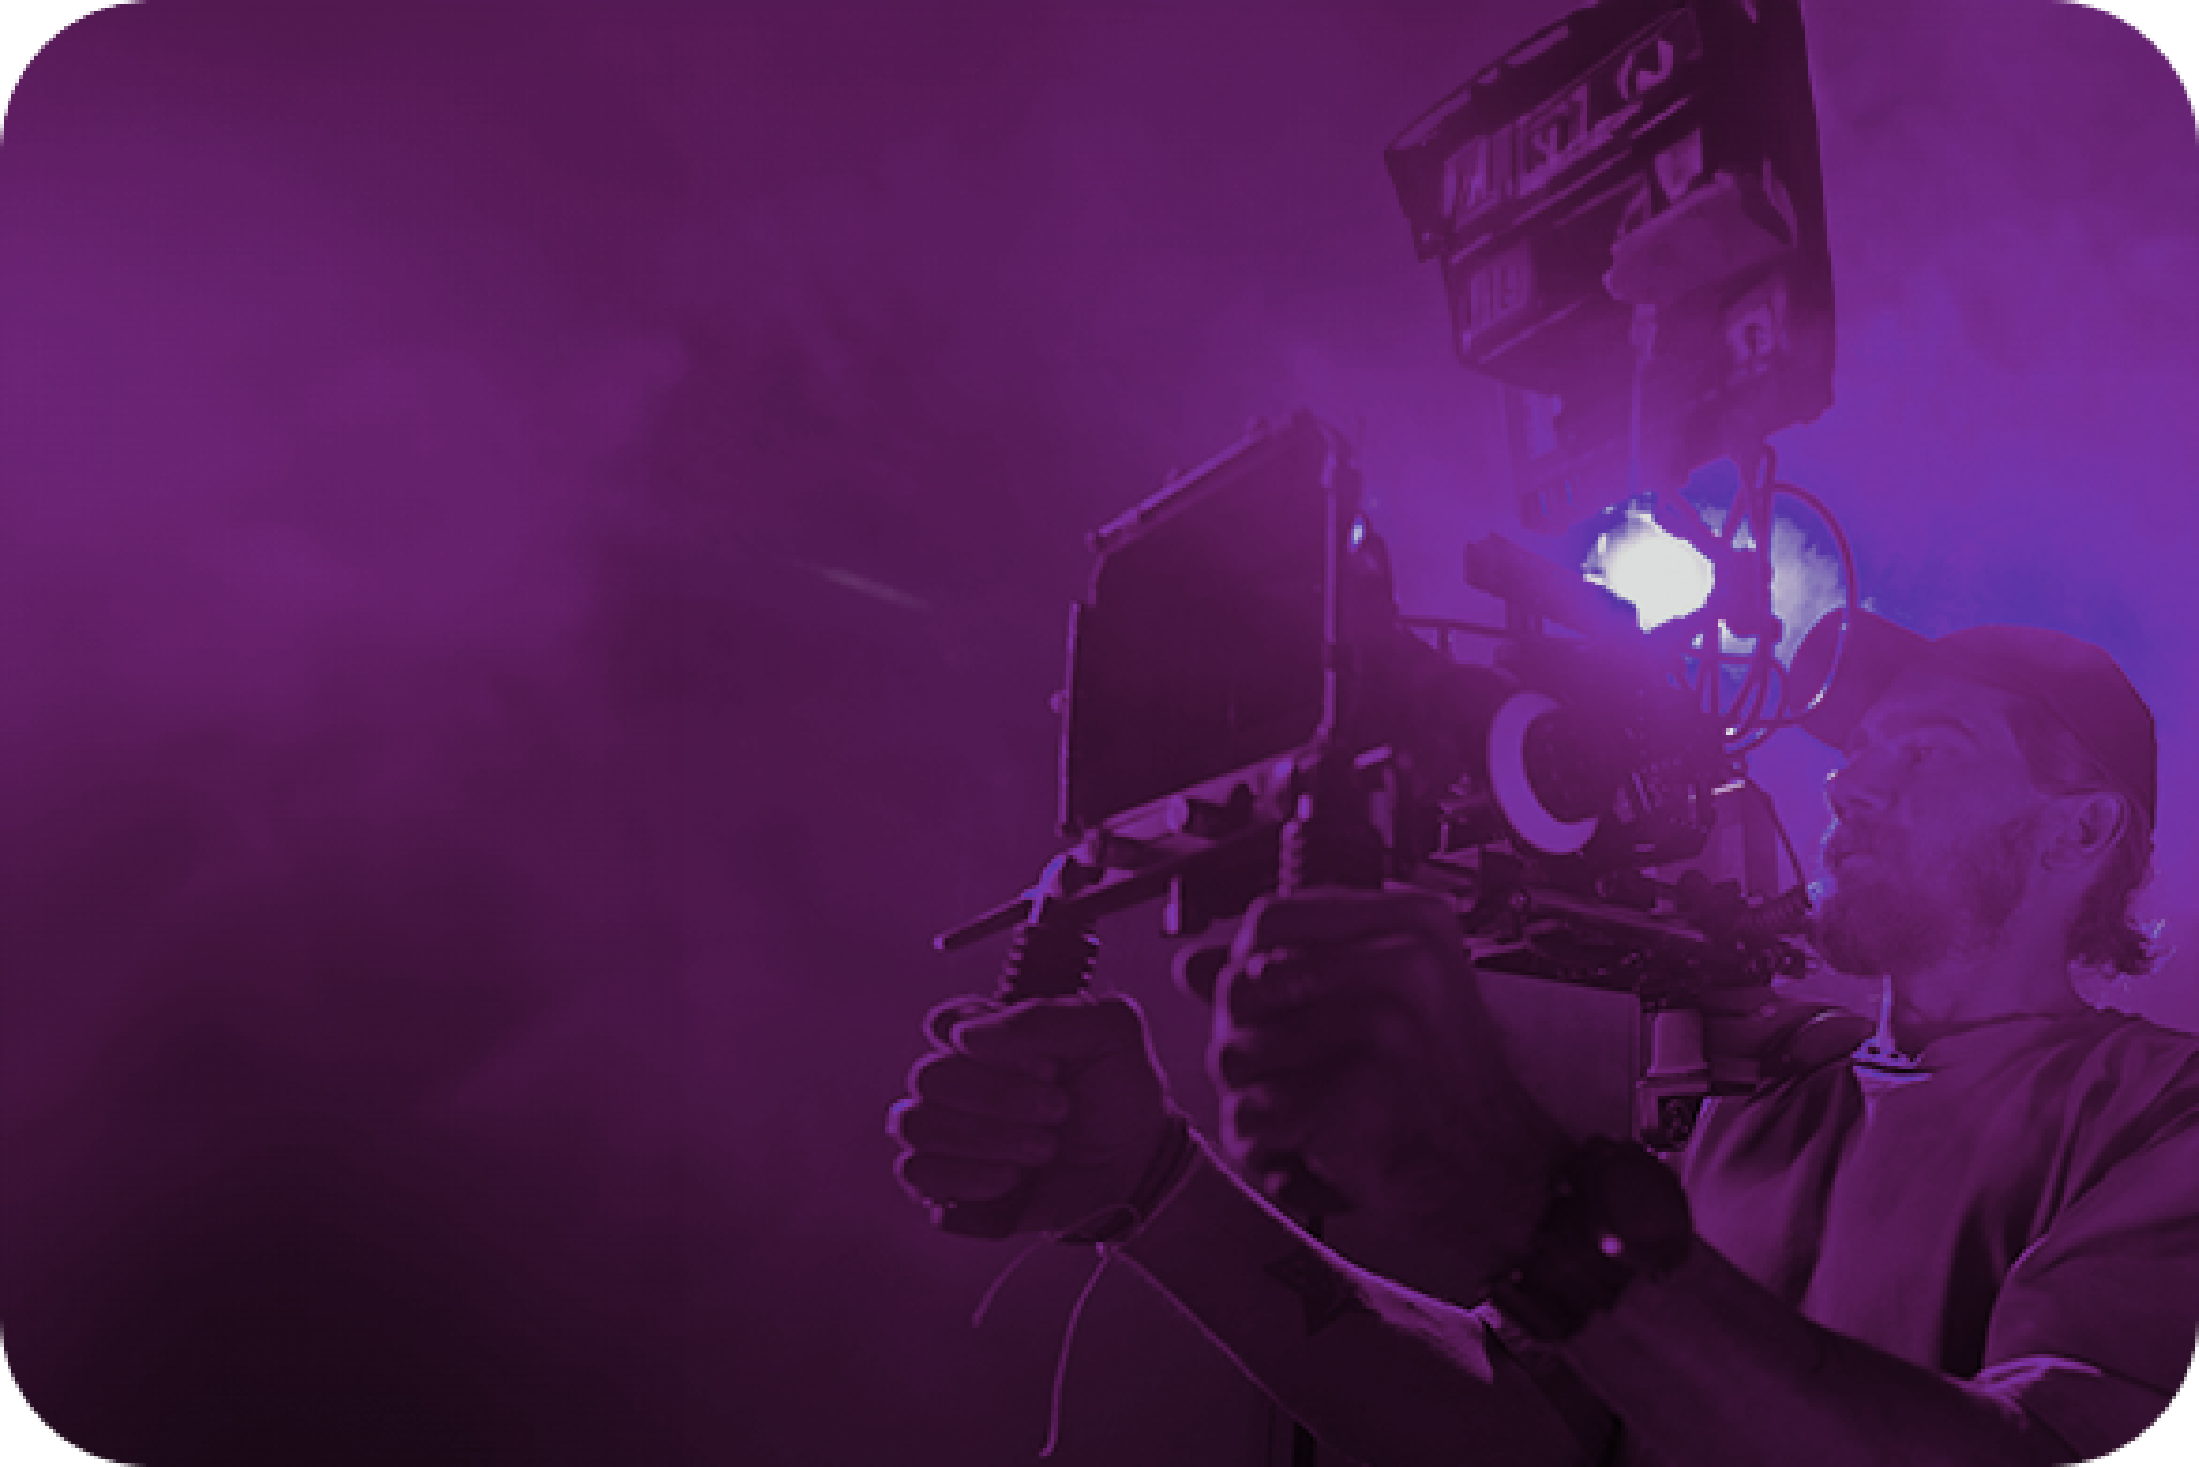
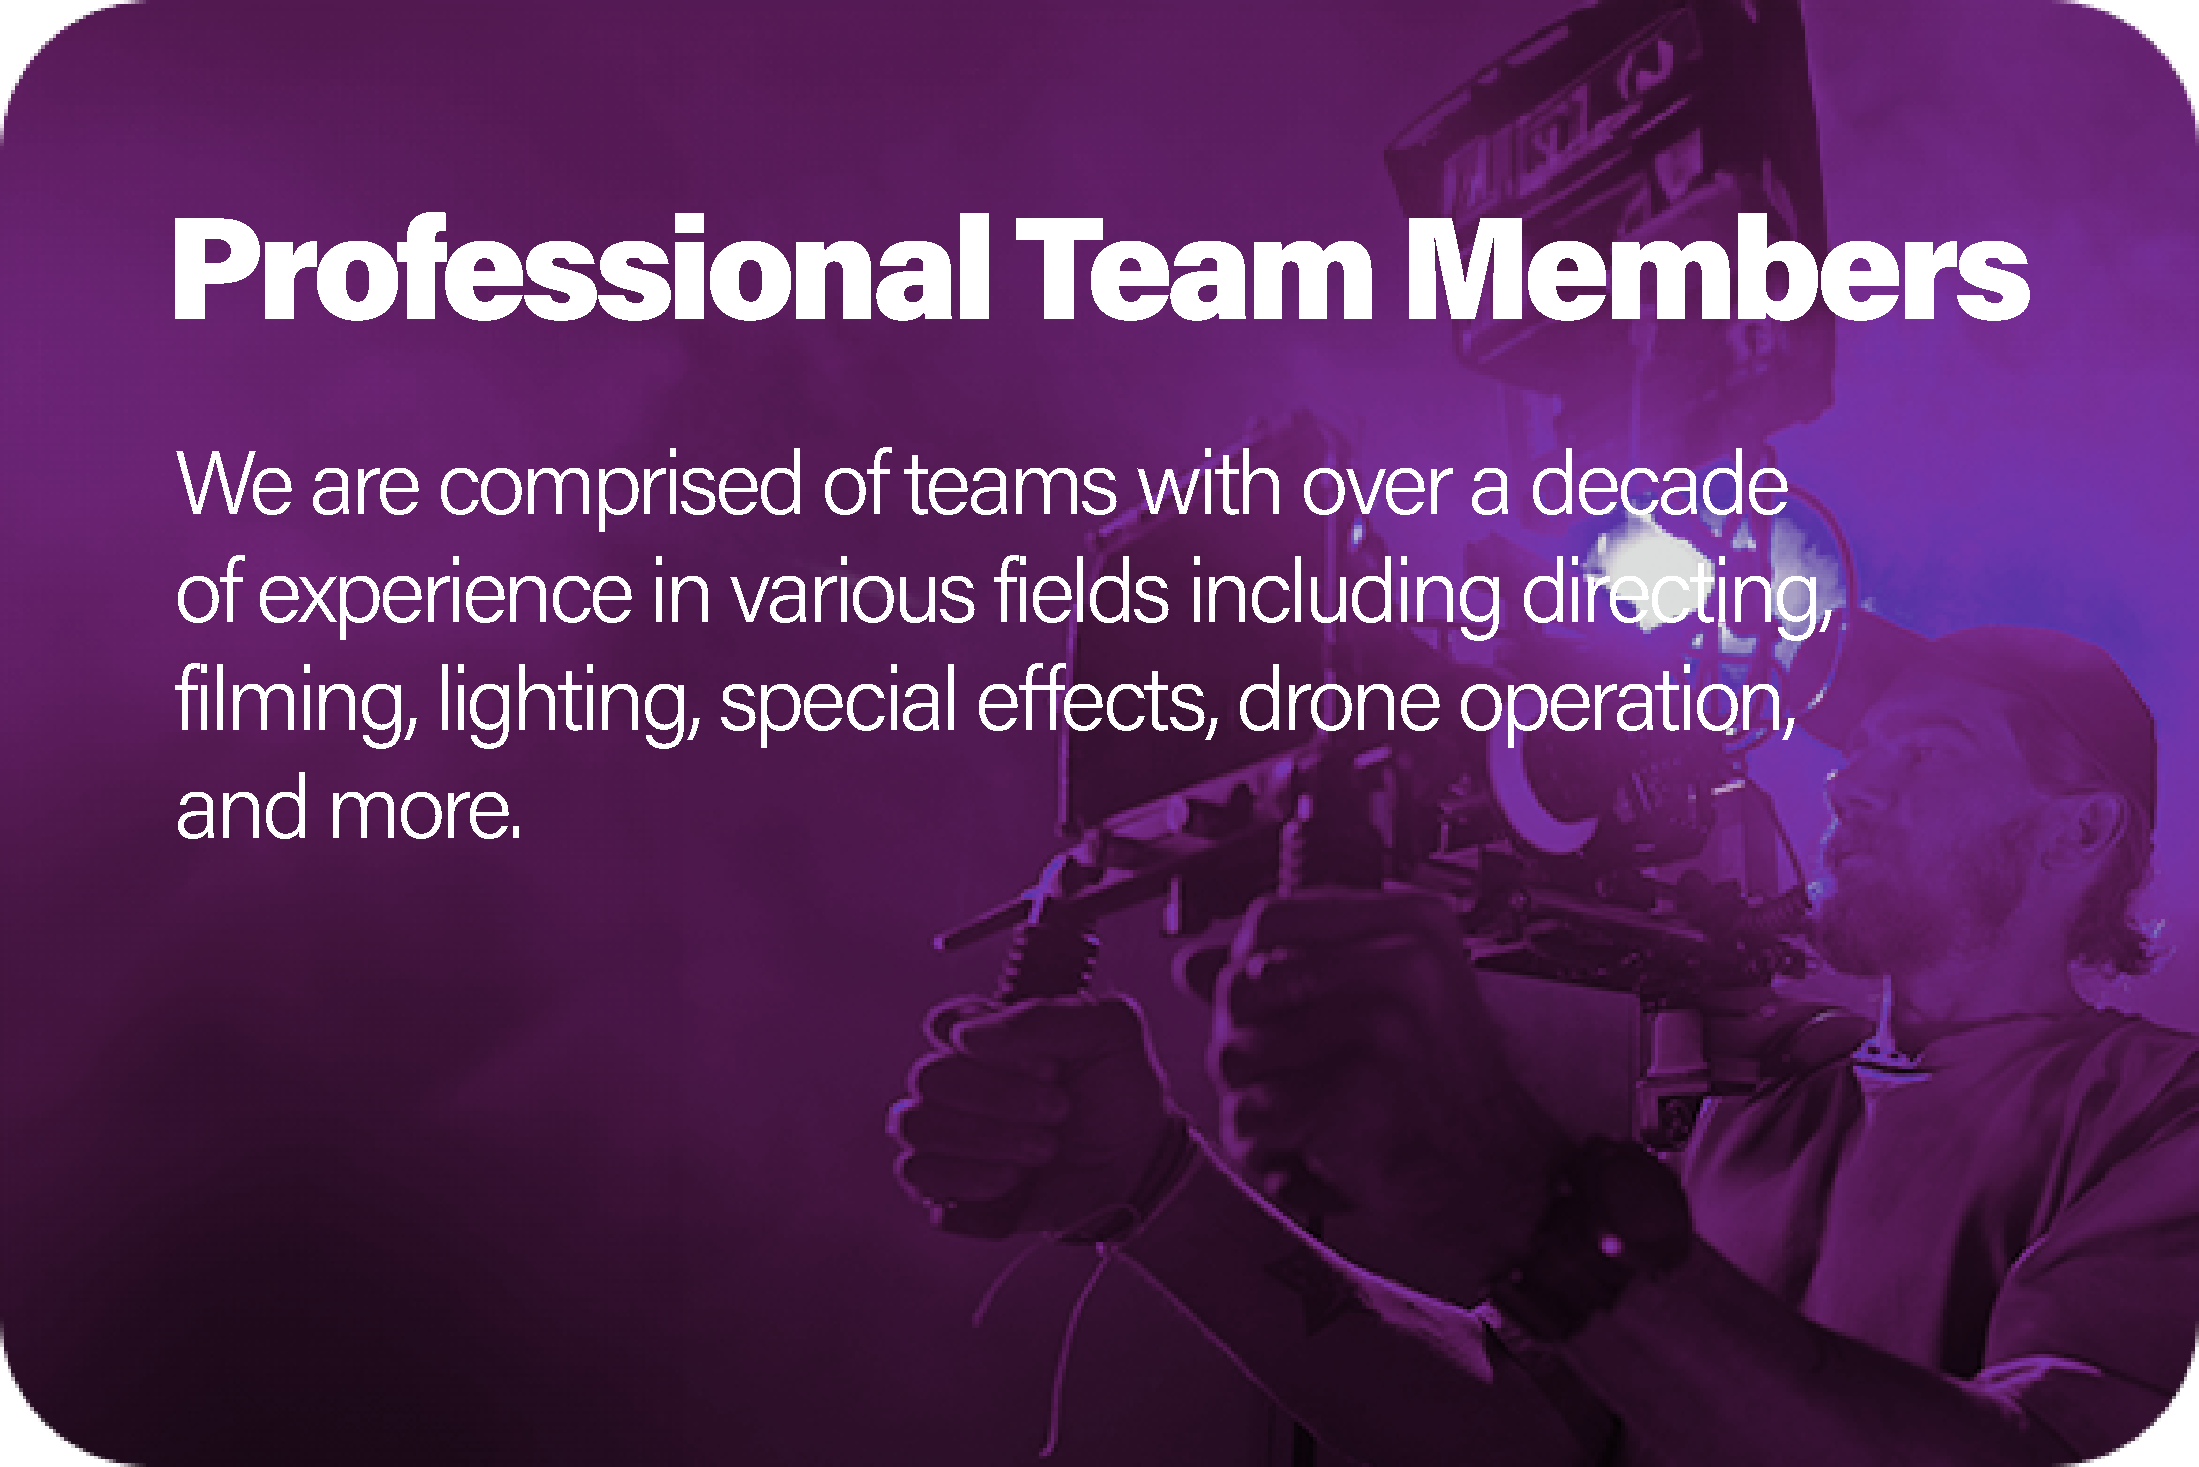
진짜로 완성이다

Changed region(s): [[0.0618, 0.3067, 0.8349, 0.4294], [0.0618, 0.1227, 0.9277, 0.2147], [0.0618, 0.4601, 0.804, 0.5828]]

diff --git a/src/app/BottomCard.jsx b/src/app/BottomCard.jsx
@@ -23,14 +23,6 @@ const BottomCard = () => {
             whileInView={visible}
             transition={{ ease: [0.1, 0.25, 0.3, 2], duration: 2 }}
           >
-            <div className="card_title">
-              <h1>Professional Team Members</h1>
-              <h3>
-                We are comprised of teams with over a decade of experience in
-                various fields including directing, filming, lighting, special
-                effects, drone operation, and more.
-              </h3>
-            </div>
             <Image src={card_img_1} alt="image" />
           </motion.div>
         </div>
@@ -41,16 +33,6 @@ const BottomCard = () => {
             whileInView={visible}
             transition={{ ease: [0.1, 0.25, 0.3, 2], duration: 2 }}
           >
-            <div className="card_title">
-              <h1>
-                24-hour <br />
-                production
-              </h1>
-              <h3 className="img2_text short_2">
-                We can work quickly with short production timelines,
-                accommodating urgent schedules for our clients.
-              </h3>
-            </div>
             <Image src={card_img_2} alt="image" />
           </motion.div>
           <motion.div
@@ -59,12 +41,6 @@ const BottomCard = () => {
             whileInView={visible}
             transition={{ ease: [0.1, 0.25, 0.3, 2], duration: 2 }}
           >
-            <div className="card_title short_1_title">
-              <h1>Global operations</h1>
-              <h3 className="img3_text short_1">
-                Our team operates globally, with a focus on South Korea
-              </h3>
-            </div>
             <Image src={card_img_3} alt="image" />
           </motion.div>
         </div>
@@ -77,14 +53,6 @@ const BottomCard = () => {
             whileInView={visible}
             transition={{ ease: [0.1, 0.25, 0.3, 2], duration: 2 }}
           >
-            <div className="card_title">
-              <h1>Stable data management</h1>
-              <h3>
-                Bora Media securely stores client data for up to 1 year using
-                private servers and Google Cloud infrastructure. With dual
-                backups, we ensure the safety of our clients valuable data.
-              </h3>
-            </div>
             <Image src={card_img_4} alt="image" />
           </motion.div>
         </div>
@@ -95,14 +63,6 @@ const BottomCard = () => {
             whileInView={visible}
             transition={{ ease: [0.1, 0.25, 0.3, 2], duration: 2 }}
           >
-            <div className="card_title">
-              <h1>Updated technology</h1>
-              <h3>
-                We always stay abreast of the latest technological advancements
-                and continually research to remain at the forefront of the
-                industry
-              </h3>
-            </div>
             <Image src={card_img_5} alt="image" />
           </motion.div>
         </div>

diff --git a/src/app/AboutCom.jsx b/src/app/AboutCom.jsx
@@ -28,7 +28,7 @@ const AboutCom = () => {
             className="line"
             initial={{ backgroundSize: "0 20%" }}
             whileInView={{ backgroundSize: "100% 20%" }}
-            transition={{ ease: [0.1, 0.25, 0.3, 2] }}
+            transition={{ ease: [0.1, 0.25, 0.3, 2], delay: 1 }}
           >
             Repeat Customers.
           </motion.span>
@@ -51,7 +51,6 @@ const AboutCom = () => {
           {aboutText.aboutFooter.map((item, idx) => (
             <div className="col mb-3" key={idx}>
               <div className="d-flex flex-column justify-content-center text-center align-items-center gap-3">
-                {item.icon}
                 <div className="about_iconss font-2 fw-bold">
                   <h3 className="text-white"> {item.count}</h3>
                   <h6 className="text-white"> {item.text}</h6>

diff --git a/src/app/style.css b/src/app/style.css
@@ -6,7 +6,7 @@
   display: flex;
   align-items: center;
   justify-content: center;
-  gap: 30px;
+  gap: 15px;
 }
 .menu-icon-toggle {
   cursor: pointer;
@@ -2392,7 +2392,8 @@
     overflow: hidden;
   }
   .navCom .contact_btn {
-    font-size: 15px;
+    font-size: 14px;
+    padding: 3px 15px;
   }
   .carousel__slides.row .carousel__thumbnails {
     width: 100% !important;
@@ -2453,5 +2454,9 @@
     color: #fff;
     font-weight: bold;
     text-align: left;
+  }
+  .menu-icon-toggle {
+    width: 25px;
+    height: 25px;
   }
 }

diff --git a/src/app/ssr.css b/src/app/ssr.css
@@ -280,7 +280,6 @@
   vertical-align: middle;
 }
 .page-scroll {
-  margin-top: 20px;
   display: flex;
   align-items: center;
   cursor: pointer;
@@ -395,12 +394,13 @@ h1.home-page-title {
 }
 @media only screen and (max-width: 640px) {
   h1.home-page-title {
-    font-size: 40px;
+    font-size: 30px;
     width: 100% !important;
     margin: -9px auto -2px auto;
   }
   .center-container h2 {
-    font-size: 15px;
+    font-size: 12px;
+    margin: 0;
   }
 }
 .mainContainer {

diff --git a/src/app/globals.css b/src/app/globals.css
@@ -703,7 +703,6 @@ a:hover,
 a:visited,
 a:active,
 a:focus {
-  color: #5f5f5f;
   text-decoration: none;
   outline: none;
   -webkit-font-smoothing: antialiased;
